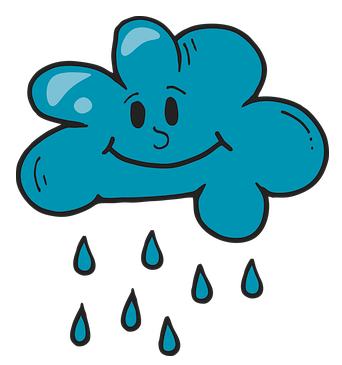
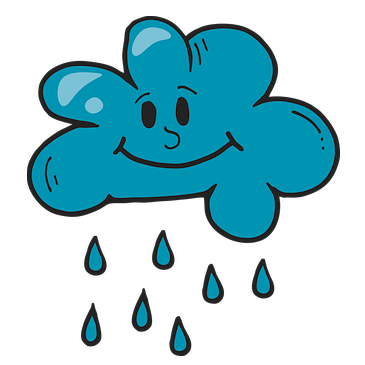
change size image

diff --git a/weather-jg/styles.css b/weather-jg/styles.css
@@ -44,8 +44,8 @@ h1 {
 }
 
 #img_res {
-	max-width: 250px;
-	max-height: 250px;
+	width: 250px;
+	height: 250px;
 }
 .tmp {
 	display: flex;
